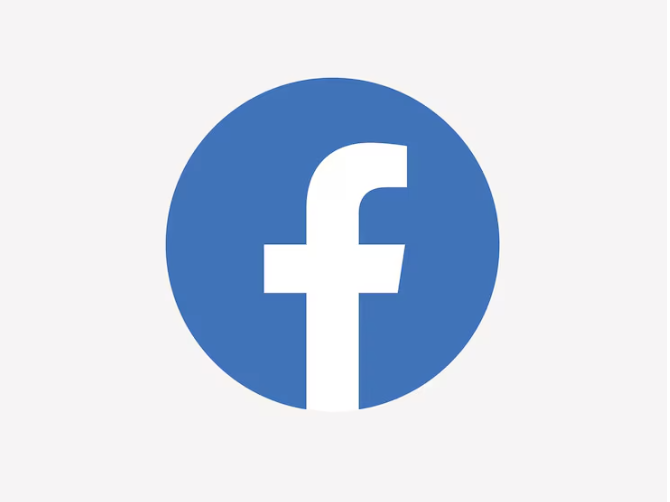
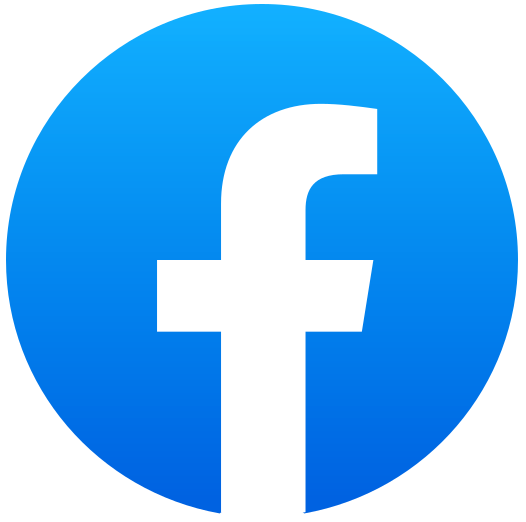
20251027_LoginForm.jsx_소셜 로고 확대 , 로그인 폼 css 수정

diff --git a/src/main/reactapp/src/components/LoginForm.jsx b/src/main/reactapp/src/components/LoginForm.jsx
@@ -148,45 +148,59 @@ const LoginForm = () => {
         </Button>
       </Box>
 
-      {/* 아이디 / 비밀번호 찾기 링크 */}
+      {/* 아이디 / 비밀번호 찾기 */}
       <Box
         sx={{
           display: "flex",
-          justifyContent: "space-between",
-          mt: 1,
-          width: "100%",
-          maxWidth: "400px",
+          justifyContent: "center",
+          alignItems: "center",
+          gap: 2,
+          mt: 2,
+          fontSize: "0.9rem",
         }}
       >
         <Link
           component="button"
           underline="hover"
-          sx={{ fontSize: "0.9rem", color: "gray" }}
+          sx={{
+            color: "gray",
+            "&:hover": { color: "#CA2E26" },
+          }}
           onClick={() => navigate("/find-id")}
         >
           아이디 찾기
         </Link>
+
+        <Typography sx={{ color: "#ccc" }}>|</Typography>
+
         <Link
           component="button"
           underline="hover"
-          sx={{ fontSize: "0.9rem", color: "gray" }}
+          sx={{
+            color: "gray",
+            "&:hover": { color: "#CA2E26" },
+          }}
           onClick={() => navigate("/find-pwd")}
         >
           비밀번호 찾기
         </Link>
       </Box>
 
-      {/* 안내문 */}
+      {/* 안내문 스타일 */}
       <Typography
         variant="body2"
         sx={{
-          mt: 4,
-          mb: 1,
-          color: "gray",
-          fontSize: "0.9rem",
+          mt: 5,
+          mb: 2,
+          color: "#666",
+          fontSize: "0.95rem",
+          fontWeight: 500,
+          letterSpacing: "0.3px",
         }}
       >
-        SNS 계정으로 빠르게 로그인하세요
+        SNS 계정으로{" "}
+        <span style={{ color: "#CA2E26", fontWeight: "bold" }}>빠르게</span>{" "}
+        로그인하세요
       </Typography>
 
       {/* 소셜 로그인 버튼 */}
@@ -194,51 +208,62 @@ const LoginForm = () => {
         sx={{
           display: "flex",
           justifyContent: "center",
-          gap: 3,
-          mt: 1,
+          gap: 4,
+          mt: 2,
         }}
       >
         {/* Google */}
         <Button
           onClick={() => handleSocialLogin("google")}
           sx={{
-            minWidth: "50px",
-            height: "50px",
+            minWidth: 64,
+            height: 64,
             borderRadius: "50%",
             bgcolor: "white",
-            boxShadow: 1,
-            "&:hover": { boxShadow: 3 },
+            boxShadow: 2,
+            "&:hover": { boxShadow: 4 },
           }}
         >
-          <img src="/구글로고.jpg" alt="Google Login" width="24" />
+          <img src="/구글로고.jpg" alt="Google Login" style={{ width: 36, height: 36 }} />
         </Button>
+
 
         {/* GitHub */}
         <Button
           onClick={() => handleSocialLogin("github")}
           sx={{
-            minWidth: "50px",
-            height: "50px",
+            width: 64,
+            height: 64,
             borderRadius: "50%",
-            bgcolor: "black",
-            "&:hover": { bgcolor: "#333" },
+            boxShadow: 2,
+            bgcolor: "white",
+            "&:hover": { boxShadow: 4 },
           }}
         >
-          <img src="/깃로고.jpg" alt="GitHub Login" width="24" />
+          <img
+            src="/깃로고.png"
+            alt="GitHub Login"
+            style={{ width: 36, height: 36 }}
+          />
         </Button>
 
         {/* Facebook */}
         <Button
           onClick={() => handleSocialLogin("facebook")}
           sx={{
-            minWidth: "50px",
-            height: "50px",
+            width: 64,
+            height: 64,
             borderRadius: "50%",
-            bgcolor: "#1877f2",
-            "&:hover": { bgcolor: "#155dc0" },
+            boxShadow: 2,
+            bgcolor: "#white",
+            "&:hover": { boxShadow: 4 },
           }}
         >
-          <img src="/페북로고.png" alt="Facebook Login" width="24" />
+          <img
+            src="/페북로고.png"
+            alt="Facebook Login"
+            style={{ width: 36, height: 36 }}
+          />
         </Button>
       </Box>
     </div>
